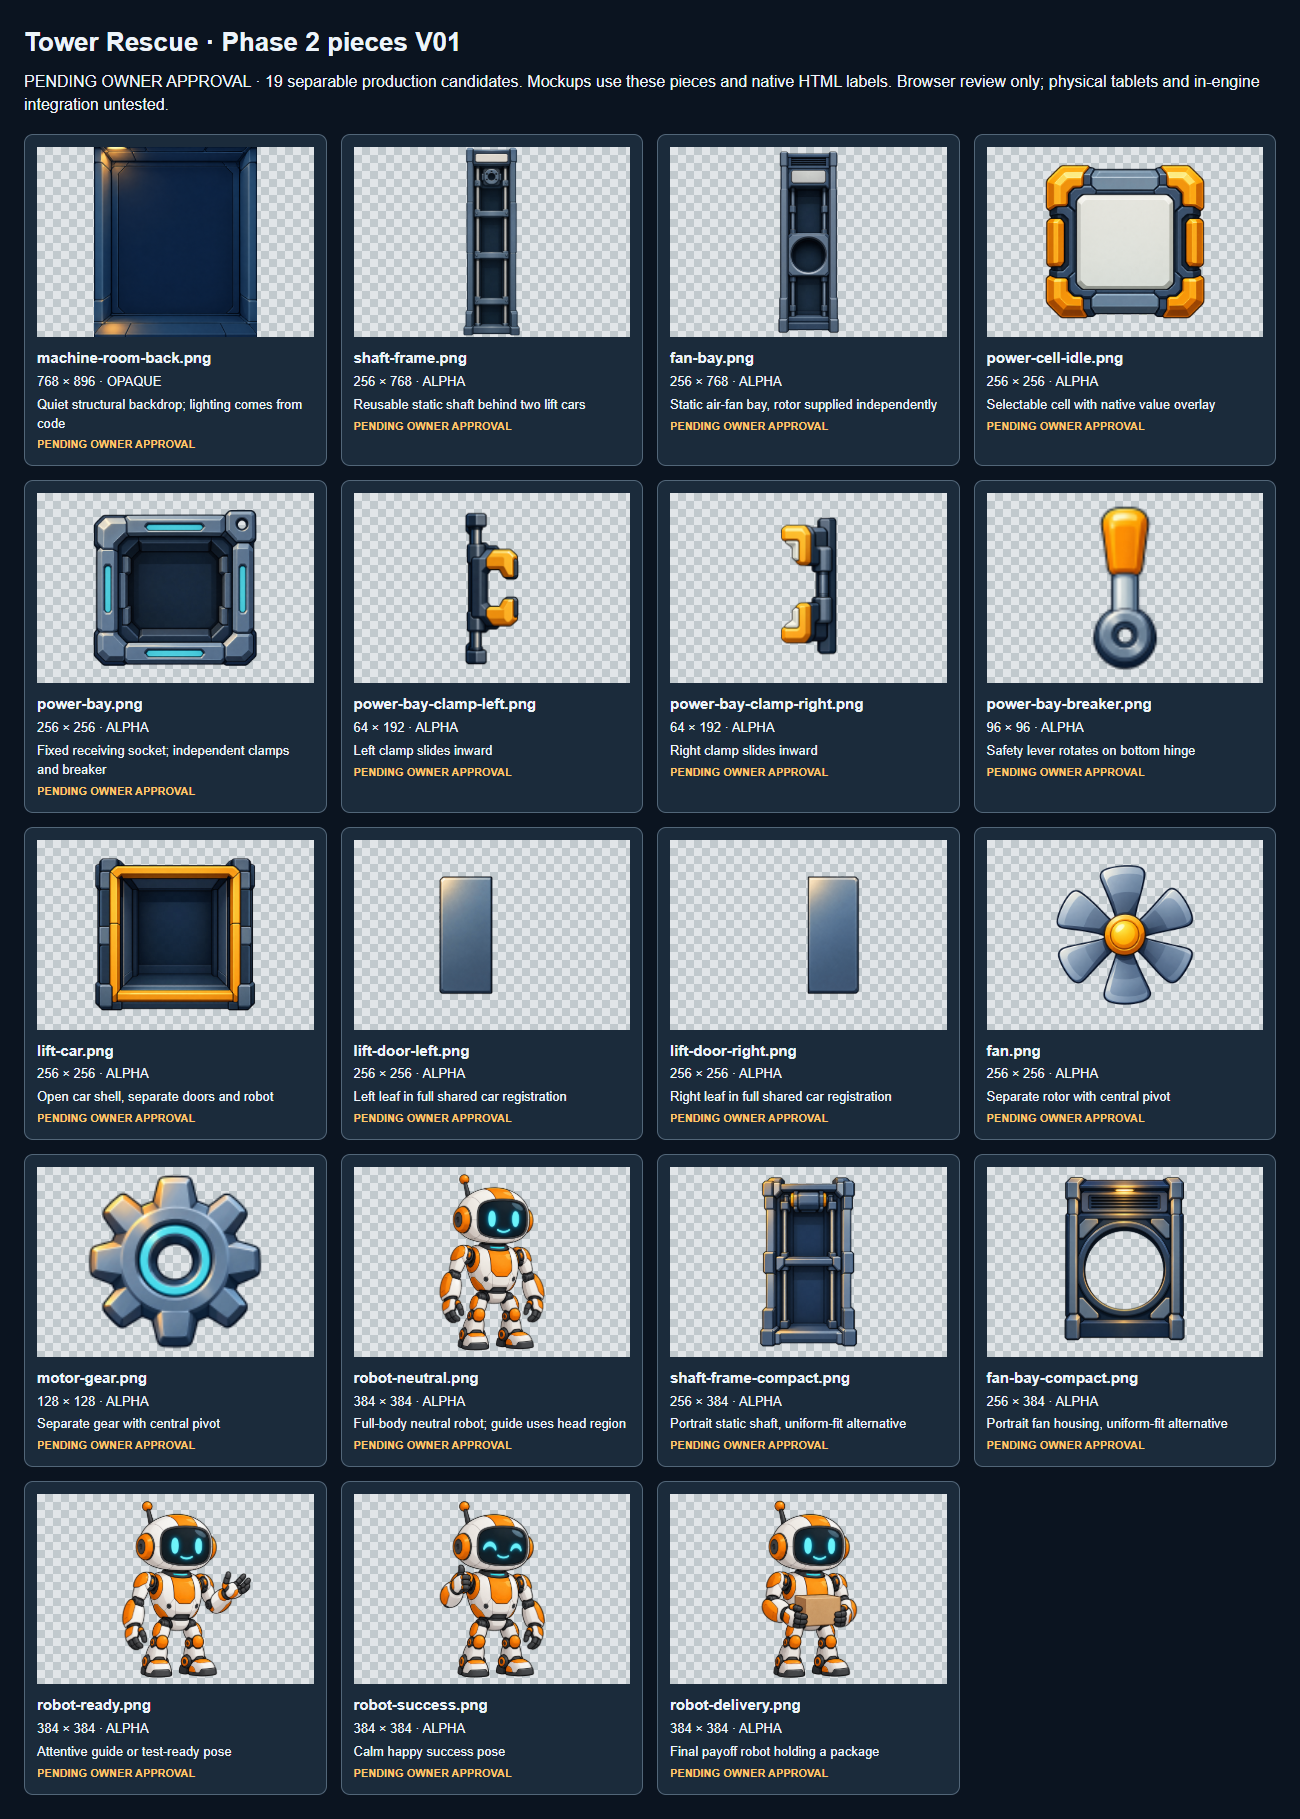
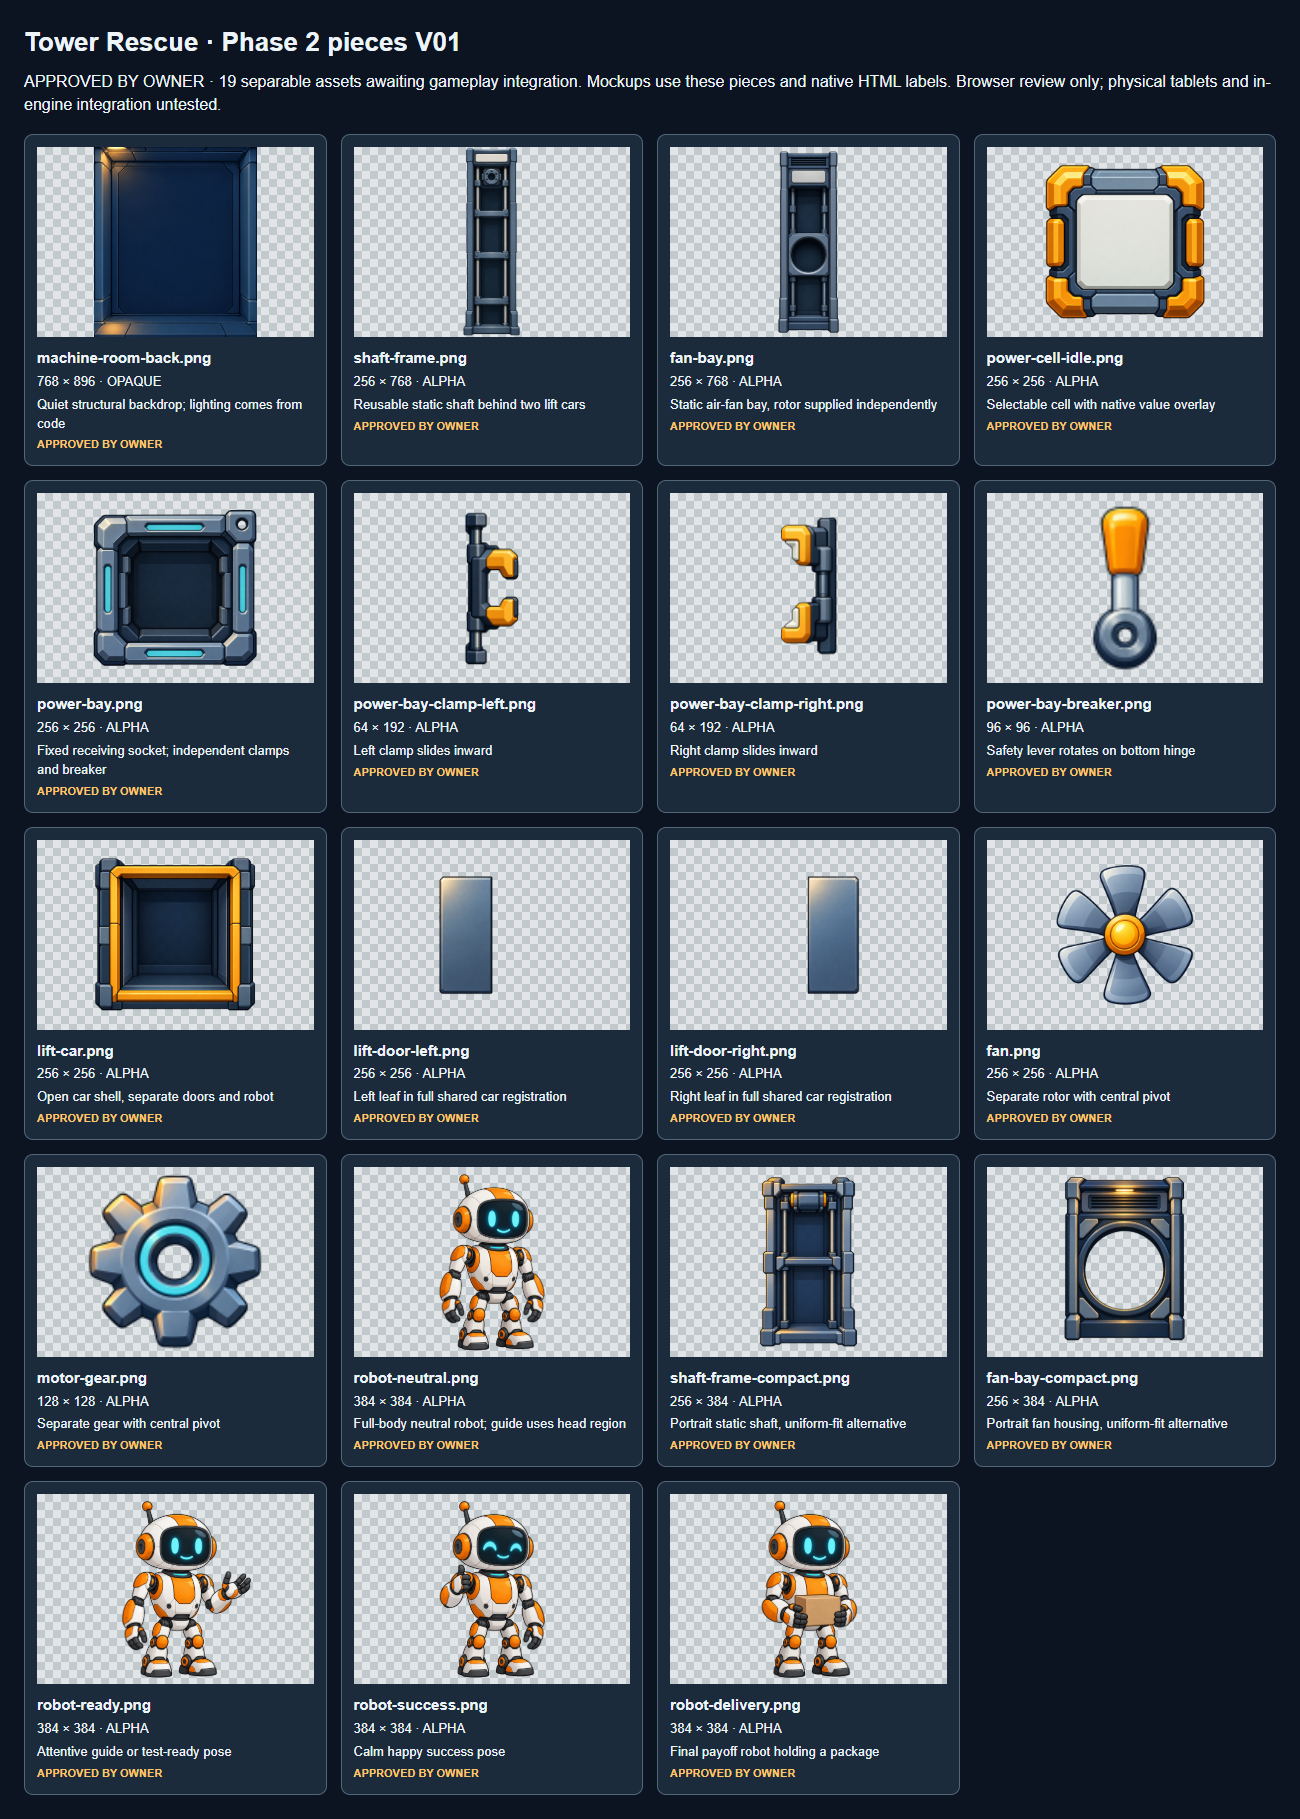
Record owner approval for the Tower Rescue Phase 2 art pack

diff --git a/review/tower-rescue/phase2-v01/index.html b/review/tower-rescue/phase2-v01/index.html
@@ -5,7 +5,7 @@
 *{box-sizing:border-box}body{margin:0;background:#0b1420;color:#edf4fa;font:16px/1.45 Arial,sans-serif}main{padding:24px;max-width:1400px;margin:auto}h1{font-size:26px;margin:0 0 8px}p{margin:8px 0 18px}a{color:#83d9e5}.tools{display:flex;flex-wrap:wrap;gap:10px;margin:18px 0}.tools button{padding:12px 16px;background:#233547;color:#fff;border:1px solid #60798c;border-radius:8px;font-size:16px;cursor:pointer}.tools button.active{border-color:#ffb33b;color:#ffc864}.viewport{overflow:auto;background:#07101a;border:1px solid #30475a;border-radius:12px;padding:12px}.screen{position:relative;flex:none;width:960px;height:600px;margin:auto;background:#0b111b;overflow:hidden}.screen.portrait{width:600px;height:960px}.room,.console{position:absolute;overflow:hidden;border-radius:18px;border:2px solid #314253;background:#152537}.room{left:12px;top:12px;width:468px;height:576px}.console{left:492px;top:12px;width:454px;height:576px}.portrait .room{width:576px;height:366px}.portrait .console{left:12px;top:392px;width:576px;height:554px}.backdrop{position:absolute;inset:0;width:100%;height:100%;object-fit:cover;opacity:.55}.roof{position:absolute;top:12px;left:26px;right:26px;height:32px;background:#293d50;border-radius:6px;padding:5px 10px;display:flex;justify-content:space-between;align-items:center}.monitor{height:22px;width:84px;background:#0a1926;display:flex;gap:3px;align-items:flex-end;padding:4px}.monitor i{width:7px;background:#61c9d8}.relays{display:flex;gap:8px}.relays i{width:13px;height:13px;border:3px solid #091721;background:#83d9b1;border-radius:4px}.system{position:absolute;top:61px;width:131px;height:468px}.system:nth-of-type(1){left:25px}.name,.status{position:absolute;text-align:center;left:0;right:0;font-size:16px;font-weight:800;line-height:1.15;z-index:10}.name{top:10px;height:40px;display:grid;place-content:center;background:#192b3b;border-radius:6px}.status{top:62px;height:36px;display:grid;place-content:center;border-radius:18px;background:#83d9b1;color:#102a25;border:2px solid #d6f0df}.status.off{background:#172b3b;color:#ffb33b;border-color:#ffb33b}.housing{position:absolute;pointer-events:none;width:138px;height:414px;left:-3px;top:50px;object-fit:contain}.fan-housing{top:95px;height:365px;width:122px;left:4px}.gear{position:absolute;width:32px;height:32px;left:50px;top:111px;transform-origin:49.61% 49.61%}.car-wrap{position:absolute;left:21px;bottom:7px;width:88px;height:88px}.car{position:absolute;inset:0;width:100%;height:100%}.doors{position:absolute;inset:0;overflow:hidden;clip-path:inset(20% 21% 19% 21%)}.door{position:absolute;inset:0;width:100%;height:100%}.delivery .door-left{transform:translateX(-28%)}.delivery .door-right{transform:translateX(28%)}.delivery .car-wrap{bottom:185px}.car-robot{position:absolute;width:62%;height:74%;left:19%;top:14%;object-fit:contain;display:none}.delivery .car-robot{display:block}.rotor{position:absolute;width:86px;height:86px;left:22px;top:296px;transform-origin:49.61% 49.61%}.powerline{position:absolute;left:26px;right:26px;bottom:14px;height:8px;border-radius:4px;background:#83d9b1;opacity:.6}.system.off .gear{filter:grayscale(1);opacity:.45}.system.off .car-wrap{filter:brightness(.65)}.headrow{height:84px;padding:14px;display:flex;justify-content:space-between;gap:8px;align-items:flex-start}.heading{font-size:20px;font-weight:800;color:#ffb33b;line-height:1.25}.subtitle{font-size:16px;color:#61c9d8}.back{height:64px;min-width:225px;border:1px solid #617586;background:#30475b;border-radius:14px;display:grid;place-content:center;font-size:16px;font-weight:bold;color:#fff}.steps{margin:4px 14px 12px;display:flex;gap:6px;height:40px}.steps span{flex:1;border:1px solid #83d9b1;border-radius:9px;text-align:center;display:grid;place-content:center;color:#83d9b1;font-size:16px;font-weight:bold;white-space:nowrap}.steps span:last-child{color:#ffb33b;border-color:#ffb33b}.guide{position:relative;margin:0 14px;height:68px;padding:16px 10px 12px 76px;background:#0b1926;border-radius:13px;font-size:20px;display:flex;align-items:center;line-height:1.25}.guide-head{position:absolute;left:12px;top:11px;width:52px;height:44px;overflow:hidden}.guide-head img{position:absolute;width:102px;height:102px;left:-25px;top:-7px}.bench{position:relative;height:98px;margin:16px 14px 0}.meter{position:absolute;left:0;top:20px;right:100px;height:70px}.meter-labels{display:flex;justify-content:space-between;font-weight:bold;font-size:16px;color:#61c9d8}.meter-labels span:last-child{color:#ffb33b}.bar{height:40px;margin-top:5px;border:2px solid #30475b;border-radius:9px;background:#06141d;position:relative}.fill{height:100%;width:100%;background:#83d9b1;border-radius:6px;box-shadow:inset 0 5px #b6eed9}.install .fill{width:53.333%}.bar:after{content:'';position:absolute;right:0;top:-7px;width:4px;height:52px;background:#ffb33b;border-radius:3px}.bay{position:absolute;width:76px;height:76px;right:10px;top:17px}.bay-base{width:100%;height:100%;position:absolute}.bay-cell{width:68%;height:68%;position:absolute;left:16%;top:16%}.cell-label{position:absolute;inset:0;display:grid;place-content:center;color:#152537;font-weight:800;font-size:18px}.clamp{position:absolute;width:8px;height:24px;top:27px}.clamp-left{left:8px}.clamp-right{right:8px}.breaker{position:absolute;right:-4px;top:-5px;width:22px;height:22px;transform-origin:49.48% 74.48%}.install .bay-cell,.install .cell-label{display:none}.run{width:260px;height:120px;margin:24px auto 0;display:grid;place-content:center;background:#ffb33b;border-radius:20px;box-shadow:0 8px #633e0b,inset 0 6px #ffd789;color:#152537;font-size:28px;font-weight:800;letter-spacing:1px}.choices{display:none;margin:20px 14px 0;gap:10px;justify-content:center}.install .choices{display:flex}.install .run{display:none}.choice{position:relative;width:76px;height:76px}.choice img{width:100%;height:100%}.choice span{position:absolute;inset:0;display:grid;place-content:center;font-size:22px;font-weight:bold;color:#152537}.delivery .run{background:#132e2d;color:#83d9b1;border:3px solid #83d9b1;box-shadow:none;font-size:22px}.portrait .system{width:167px;height:262px}.portrait .housing{width:152px;height:228px;left:7px;top:45px}.portrait .fan-housing{width:128px;height:192px;left:19px;top:75px}.portrait .gear{left:68px;top:85px;width:30px;height:30px}.portrait .car-wrap{width:64px;height:64px;left:51px;bottom:7px}.portrait.delivery .car-wrap{bottom:78px}.portrait .rotor{width:92px;height:92px;left:37px;top:143px}.portrait .headrow{height:84px}.portrait .guide{margin-top:0}.portrait .bench{margin-top:20px}.portrait .run{margin-top:26px}.legend{font-size:14px;color:#acbccb;margin-top:16px}.sheet{display:grid;grid-template-columns:repeat(4,1fr);gap:14px}.tile{border:1px solid #526678;background:#1b2b3b;border-radius:9px;padding:12px;overflow:hidden}.thumb{height:190px;background-color:#e1e5e8;background-image:linear-gradient(45deg,#c1c9cd 25%,transparent 25%),linear-gradient(-45deg,#c1c9cd 25%,transparent 25%),linear-gradient(45deg,transparent 75%,#c1c9cd 75%),linear-gradient(-45deg,transparent 75%,#c1c9cd 75%);background-size:16px 16px;background-position:0 0,0 8px,8px -8px,-8px 0}.thumb img{width:100%;height:100%;object-fit:contain}.tile h3{font-size:15px;margin:10px 0 4px}.tile p{font-size:13px;margin:4px 0}.badge{color:#ffc76b;font-size:11px;font-weight:bold}.sheetmode .tools,.sheetmode .viewport,.sheetmode .legend{display:none}#contact{display:none}.sheetmode #contact{display:block}
 </style>
 <style>.bay-cell{width:78%;height:78%;left:11%;top:11%}.cell-label{font-size:16px}.delivery .car-wrap{bottom:225px}.portrait .car-wrap{width:80px;height:80px;left:43px}.portrait.delivery .car-wrap{bottom:38px}.gear{top:99px}.rotor{top:260px}.portrait .housing{width:111px;height:166px;left:28px;top:96px}.portrait .fan-housing{width:112px;height:168px;left:27px;top:94px}.portrait .gear{top:112px}.portrait .rotor{top:138px}</style>
-<main><h1>Tower Rescue · Phase 2 pieces V01</h1><p>PENDING OWNER APPROVAL · 19 separable production candidates. Mockups use these pieces and native HTML labels. Browser review only; physical tablets and in-engine integration untested.</p>
+<main><h1>Tower Rescue · Phase 2 pieces V01</h1><p>APPROVED BY OWNER · 19 separable assets awaiting gameplay integration. Mockups use these pieces and native HTML labels. Browser review only; physical tablets and in-engine integration untested.</p>
 <div class="tools"><button data-orientation="landscape">Fire landscape</button><button data-orientation="portrait">Fire portrait</button><button data-state="powered">Powered</button><button data-state="install">Repair</button><button data-state="delivery">Delivery</button><a href="?view=contact">Contact sheet</a><a href="../../../docs/tower-rescue-art/PHASE2-INTEGRATION.md">Integration note</a></div>
 <div class="viewport"><div class="screen" id="screen"></div></div>
 <p class="legend">Artwork stays outside prompt and label zones. All numbers here are captured example values, not fixed game content. Static review controls do not run the educational game.</p>

diff --git a/review/tower-rescue/hero-v01/index.html b/review/tower-rescue/hero-v01/index.html
@@ -10,7 +10,7 @@
 .status{top:20.25%;width:12%;height:26px;display:grid;place-content:center;font-size:16px;white-space:nowrap;background:#83d9b1;border:1px solid #e5f4e7;border-radius:13px;color:#082b25}
 .s1{left:5.5%}.s2{left:21.1%}.s3{left:36.7%}
 </style>
-<main><h1>Tower Rescue · hero concept V01</h1><p class="note">VISUAL DIRECTION APPROVED · Reference only. Phase 2 pieces remain PENDING OWNER APPROVAL; see the separate Phase 2 review. Browser review at 960 × 600; physical tablet appearance untested.</p>
+<main><h1>Tower Rescue · hero concept V01</h1><p class="note">VISUAL DIRECTION APPROVED · Reference only. The selected Phase 2 pieces are now APPROVED BY OWNER; see the separate Phase 2 review. Browser review at 960 × 600; physical tablet appearance untested.</p>
 <div class="tools"><button data-mode="mockup" aria-pressed="true">Game-screen mockup</button><button data-mode="art" aria-pressed="false">Artwork without labels</button><button data-mode="reference" aria-pressed="false">Current game reference</button></div>
 <div class="viewport"><div class="screen" id="screen"><img class="art" id="art" src="../../../assets/concepts/tower-rescue/hero-v01.png" alt="Illustrated machine room with two lift shafts and an air fan beside a powered repair console."><div class="ui" id="ui">
 <h2 class="title">TOWER RESCUE</h2><p class="subtitle">QUAKE CONTROL</p><p class="back">BACK TO ELEVATOR</p><p class="tab t1">✓ DIAGNOSE</p><p class="tab t2">✓ REPAIR</p><p class="tab t3">TEST</p>

diff --git a/review/tower-rescue/phase2-v01/review.js b/review/tower-rescue/phase2-v01/review.js
@@ -27,7 +27,7 @@ for(const b of document.querySelectorAll('[data-orientation]'))b.onclick=()=>{or
 for(const b of document.querySelectorAll('[data-state]'))b.onclick=()=>{state=b.dataset.state;render()};
 render();
 fetch(prefix+'manifest.json').then(r=>r.json()).then(m=>{
- document.querySelector('#sheet').innerHTML=m.assets.map(a=>'<article class="tile"><div class="thumb">'+img(a.id,'')+'</div><h3>'+a.file+'</h3><p>'+a.width+' × '+a.height+' · '+(a.transparentPixels?'ALPHA':'OPAQUE')+'</p><p>'+a.use+'</p><div class="badge">PENDING OWNER APPROVAL</div></article>').join('');
+ document.querySelector('#sheet').innerHTML=m.assets.map(a=>'<article class="tile"><div class="thumb">'+img(a.id,'')+'</div><h3>'+a.file+'</h3><p>'+a.width+' × '+a.height+' · '+(a.transparentPixels?'ALPHA':'OPAQUE')+'</p><p>'+a.use+'</p><div class="badge">'+a.approval+'</div></article>').join('');
  document.documentElement.dataset.ready='true';
 });
 if(params.get('view')==='contact')document.body.classList.add('sheetmode');

diff --git a/docs/tower-rescue-art/OWNER-APPROVAL.md b/docs/tower-rescue-art/OWNER-APPROVAL.md
@@ -1,0 +1,11 @@
+# Tower Rescue — owner approval
+
+**APPROVED BY OWNER — 19 selected Phase 2 assets.** The owner replied **“approved”** after the completed pack, contact sheet and composed Fire mockups were presented. Approval was recorded on 2026-10-12 at 20:37:29 UTC against review commit `20869926bd3c4d4b9d860a127ce6dc7d0d53bcc0`.
+
+The asset-by-asset SHA-256 list is in `assets/candidates/tower-rescue/v01/owner-approval.json`. It covers the selected tablet exports and their unchanged generated masters. Superseded source iterations remain outside the approved selection. Individual source-file inspection by the owner is not asserted; the original `humanReviewed` flags remain false.
+
+Claude can use this pack for the separately scoped integration. Preserve the owner's readability, hierarchy, isolated moving-part, portrait/landscape, calm-room and procedural-effect constraints described in [PHASE2-INTEGRATION.md](PHASE2-INTEGRATION.md).
+
+This approval records the artwork decision. It does not perform production registration, gameplay integration or a merge. Those files and branches remain untouched.
+
+Approval-update validation: all 19 export/master hashes matched the approved selection; the review displayed 19 approved labels with no browser errors. Typecheck, lint and the separate Fire dependency scan passed. The required full verification again reported 2,019 passing tests and the same two checkout-line-ending freshness failures documented in PHASE2-VALIDATION.md. Asset pixels and the existing gameplay mockups were preserved. No physical-device testing was performed.

diff --git a/docs/tower-rescue-art/HERO-V01.md b/docs/tower-rescue-art/HERO-V01.md
@@ -1,6 +1,6 @@
 # Tower Rescue — hero direction V01
 
-**PHASE 1 · VISUAL DIRECTION APPROVED — REFERENCE ONLY.** The owner approved this direction for Phase 2 on 2026-10-12, subject to readability, separated moving parts, portrait safety, calm lighting and procedural effects. The separate Phase 2 pieces remain PENDING OWNER APPROVAL. One generated hero direction, a tablet-sized review mockup, and the unchanged game's layout reference. No gameplay, learning, persistence, audio, rendering code, or production manifest is changed.
+**PHASE 1 · VISUAL DIRECTION APPROVED — REFERENCE ONLY.** The owner approved this direction for Phase 2 on 2026-10-12, subject to readability, separated moving parts, portrait safety, calm lighting and procedural effects. The 19 selected Phase 2 pieces were subsequently approved by the owner; see OWNER-APPROVAL.md. One generated hero direction, a tablet-sized review mockup, and the unchanged game's layout reference. No gameplay, learning, persistence, audio, rendering code, or production manifest is changed.
 
 Creative branch: `codex/tower-rescue-art`. Source baseline: `169c8b9aaf27303a17dcec36c4e86e1c504f10b5`, the D193 documentation commit above the game-feel implementation. The reference was captured by playing the existing developer scenario in Chromium, not by inventing a different game. It diagnosed the freight lift, showed HAS 8 / NEEDS 15, installed +7, and reached the powered state before RUN TEST. The example values are a captured instance, not proposed fixed gameplay content.
 

diff --git a/docs/tower-rescue-art/PHASE2-INTEGRATION.md b/docs/tower-rescue-art/PHASE2-INTEGRATION.md
@@ -1,6 +1,6 @@
 # Tower Rescue — Phase 2 integration note
 
-**PENDING OWNER APPROVAL — all 19 production candidates.** The owner approved the visual direction on 2026-10-12 with readability, isolation, portrait safety and procedural-effects constraints. That approval does not approve these individual pieces. Nothing is registered or integrated into gameplay.
+**APPROVED BY OWNER — all 19 selected Phase 2 assets.** Following the direction approval, the owner explicitly approved the completed pack on 2026-10-12. See [the approval record](OWNER-APPROVAL.md). The readability, isolation, portrait-safety and procedural-effects constraints remain. Nothing is registered or integrated into gameplay.
 
 Pack: `assets/candidates/tower-rescue/v01/`. Each tablet PNG has an unchanged generated master under `masters/`; `manifest.json` records actual dimensions, alpha, bounds, bytes and SHA-256. Exact selected prompts and generation ancestry are in `phase2-generation.json`. Built-in OpenAI image_gen generated the art; the tool did not return a model identifier. Export preparation only uniformly resamples and pads the original canvas using the installed jimp-compact 0.16.1. It does not repaint, extract, mirror or flatten pieces.
 

diff --git a/docs/tower-rescue-art/PHASE2-VALIDATION.md b/docs/tower-rescue-art/PHASE2-VALIDATION.md
@@ -1,6 +1,6 @@
 # Phase 2 validation record
 
-All selected production candidates are **PENDING OWNER APPROVAL**. Browser-only review; no physical-device or in-engine art validation.
+This initial validation preceded approval. The 19 selected assets are now **APPROVED BY OWNER**; see OWNER-APPROVAL.md. Browser-only review; no physical-device or in-engine art validation.
 
 - Candidate checker: 19 files matched saved dimensions and SHA-256; all 18 isolated sprites had real transparent pixels. Every selected master matched its original generator output byte-for-byte. Approval remained pending on every candidate.
 - Chromium composition review: six Fire layout/state combinations (landscape/portrait × repair/powered/delivery), all images decoded, 19 contact-sheet tiles, review controls worked, no page errors. Export canvases are 960 × 600 and 600 × 960. Contact-sheet canvas is 1300 × 1819. Saved outputs were visually inspected.
